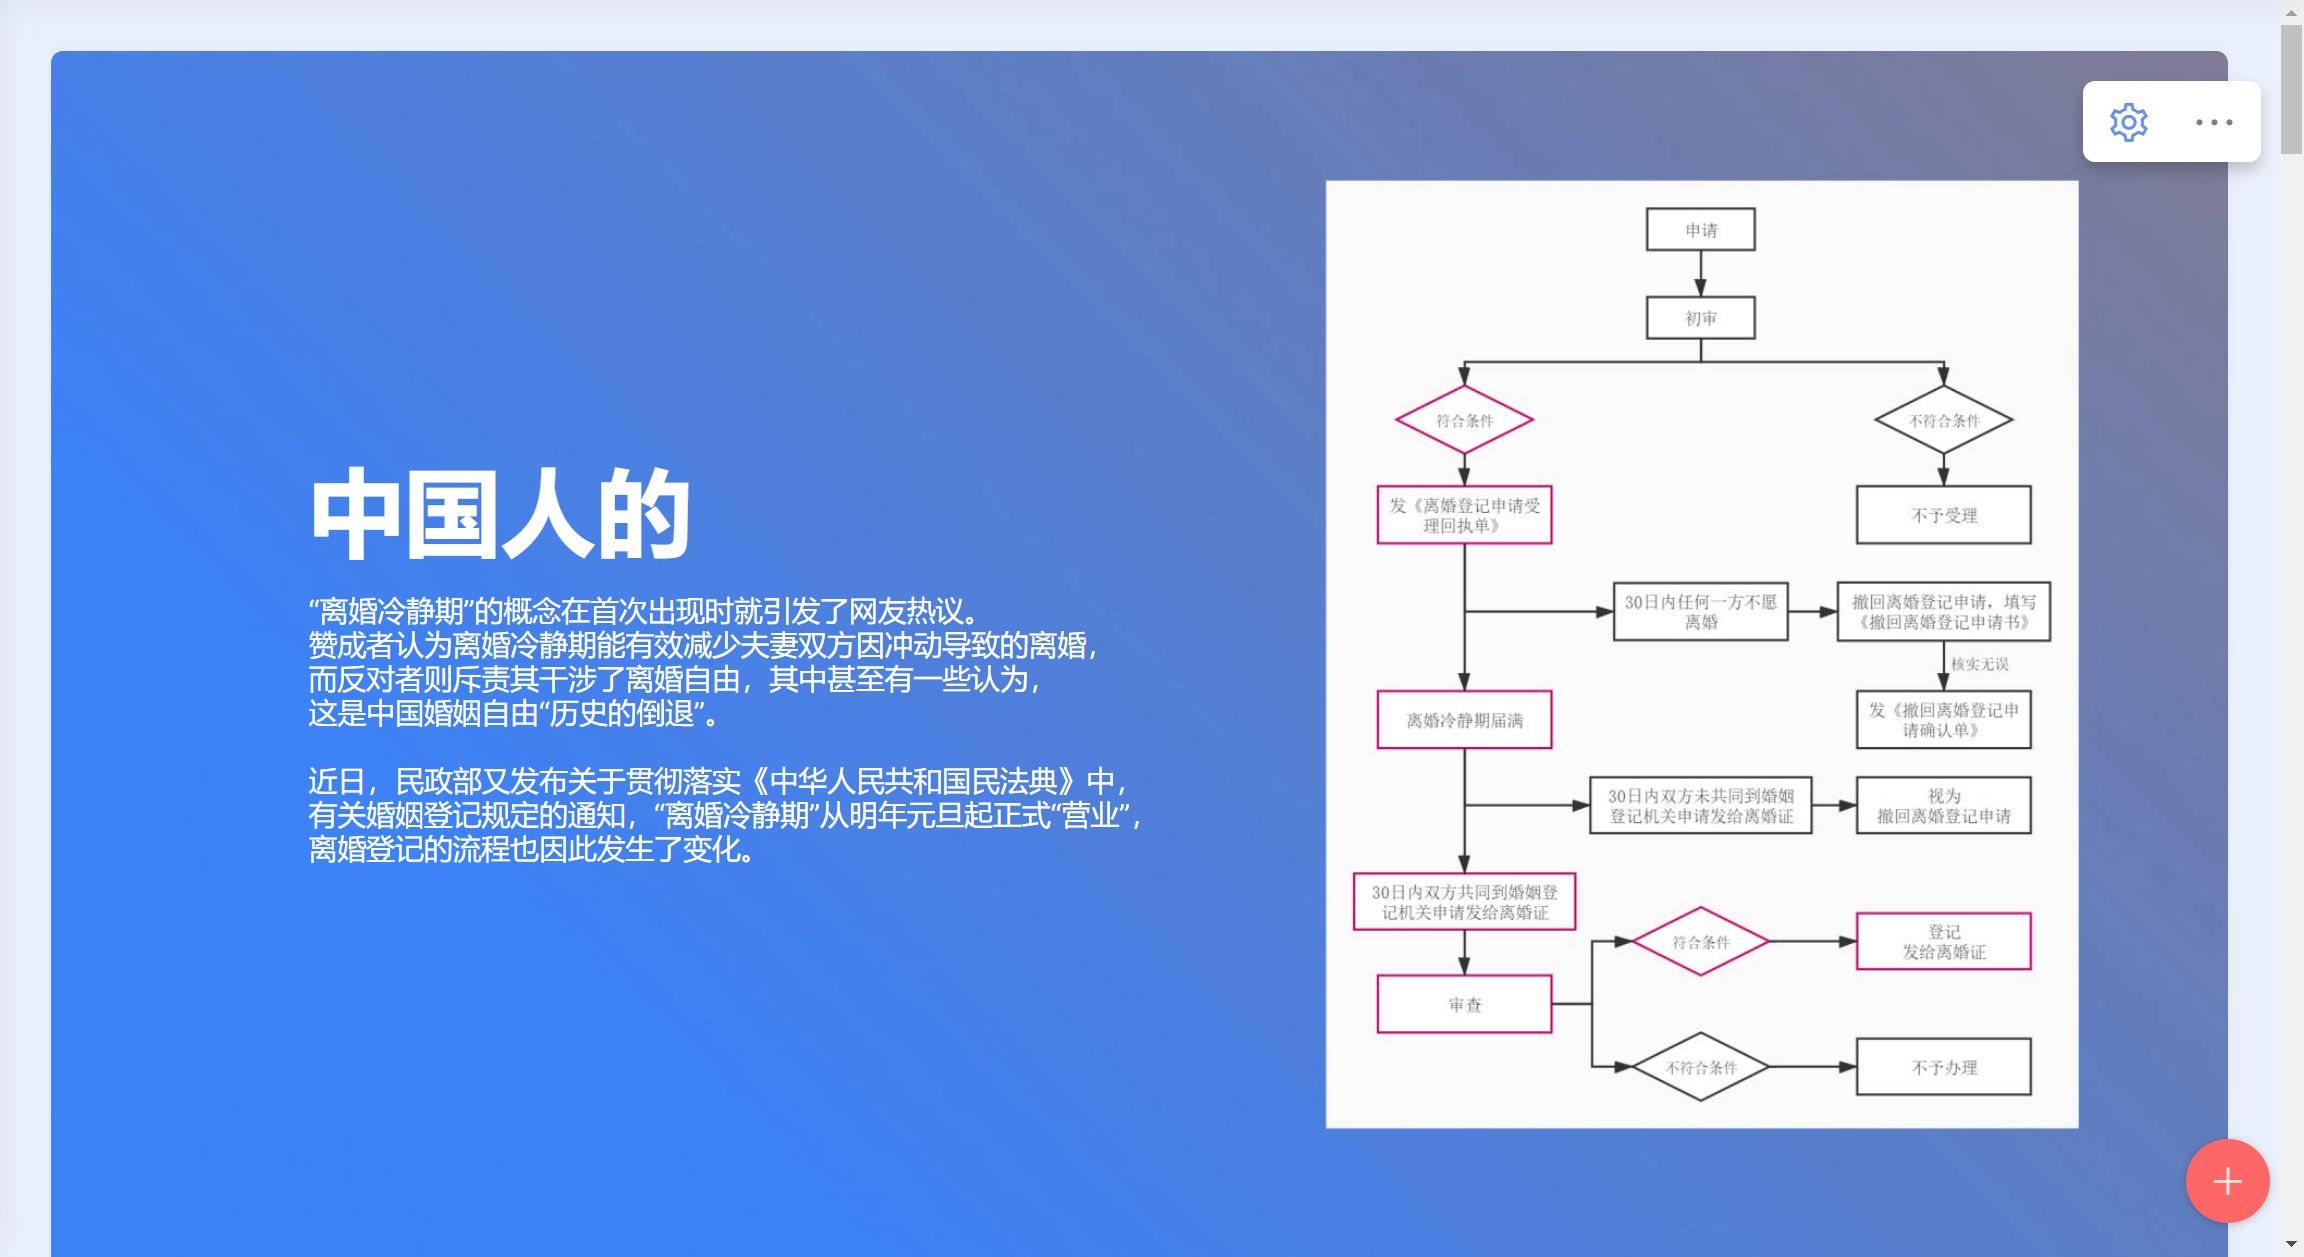
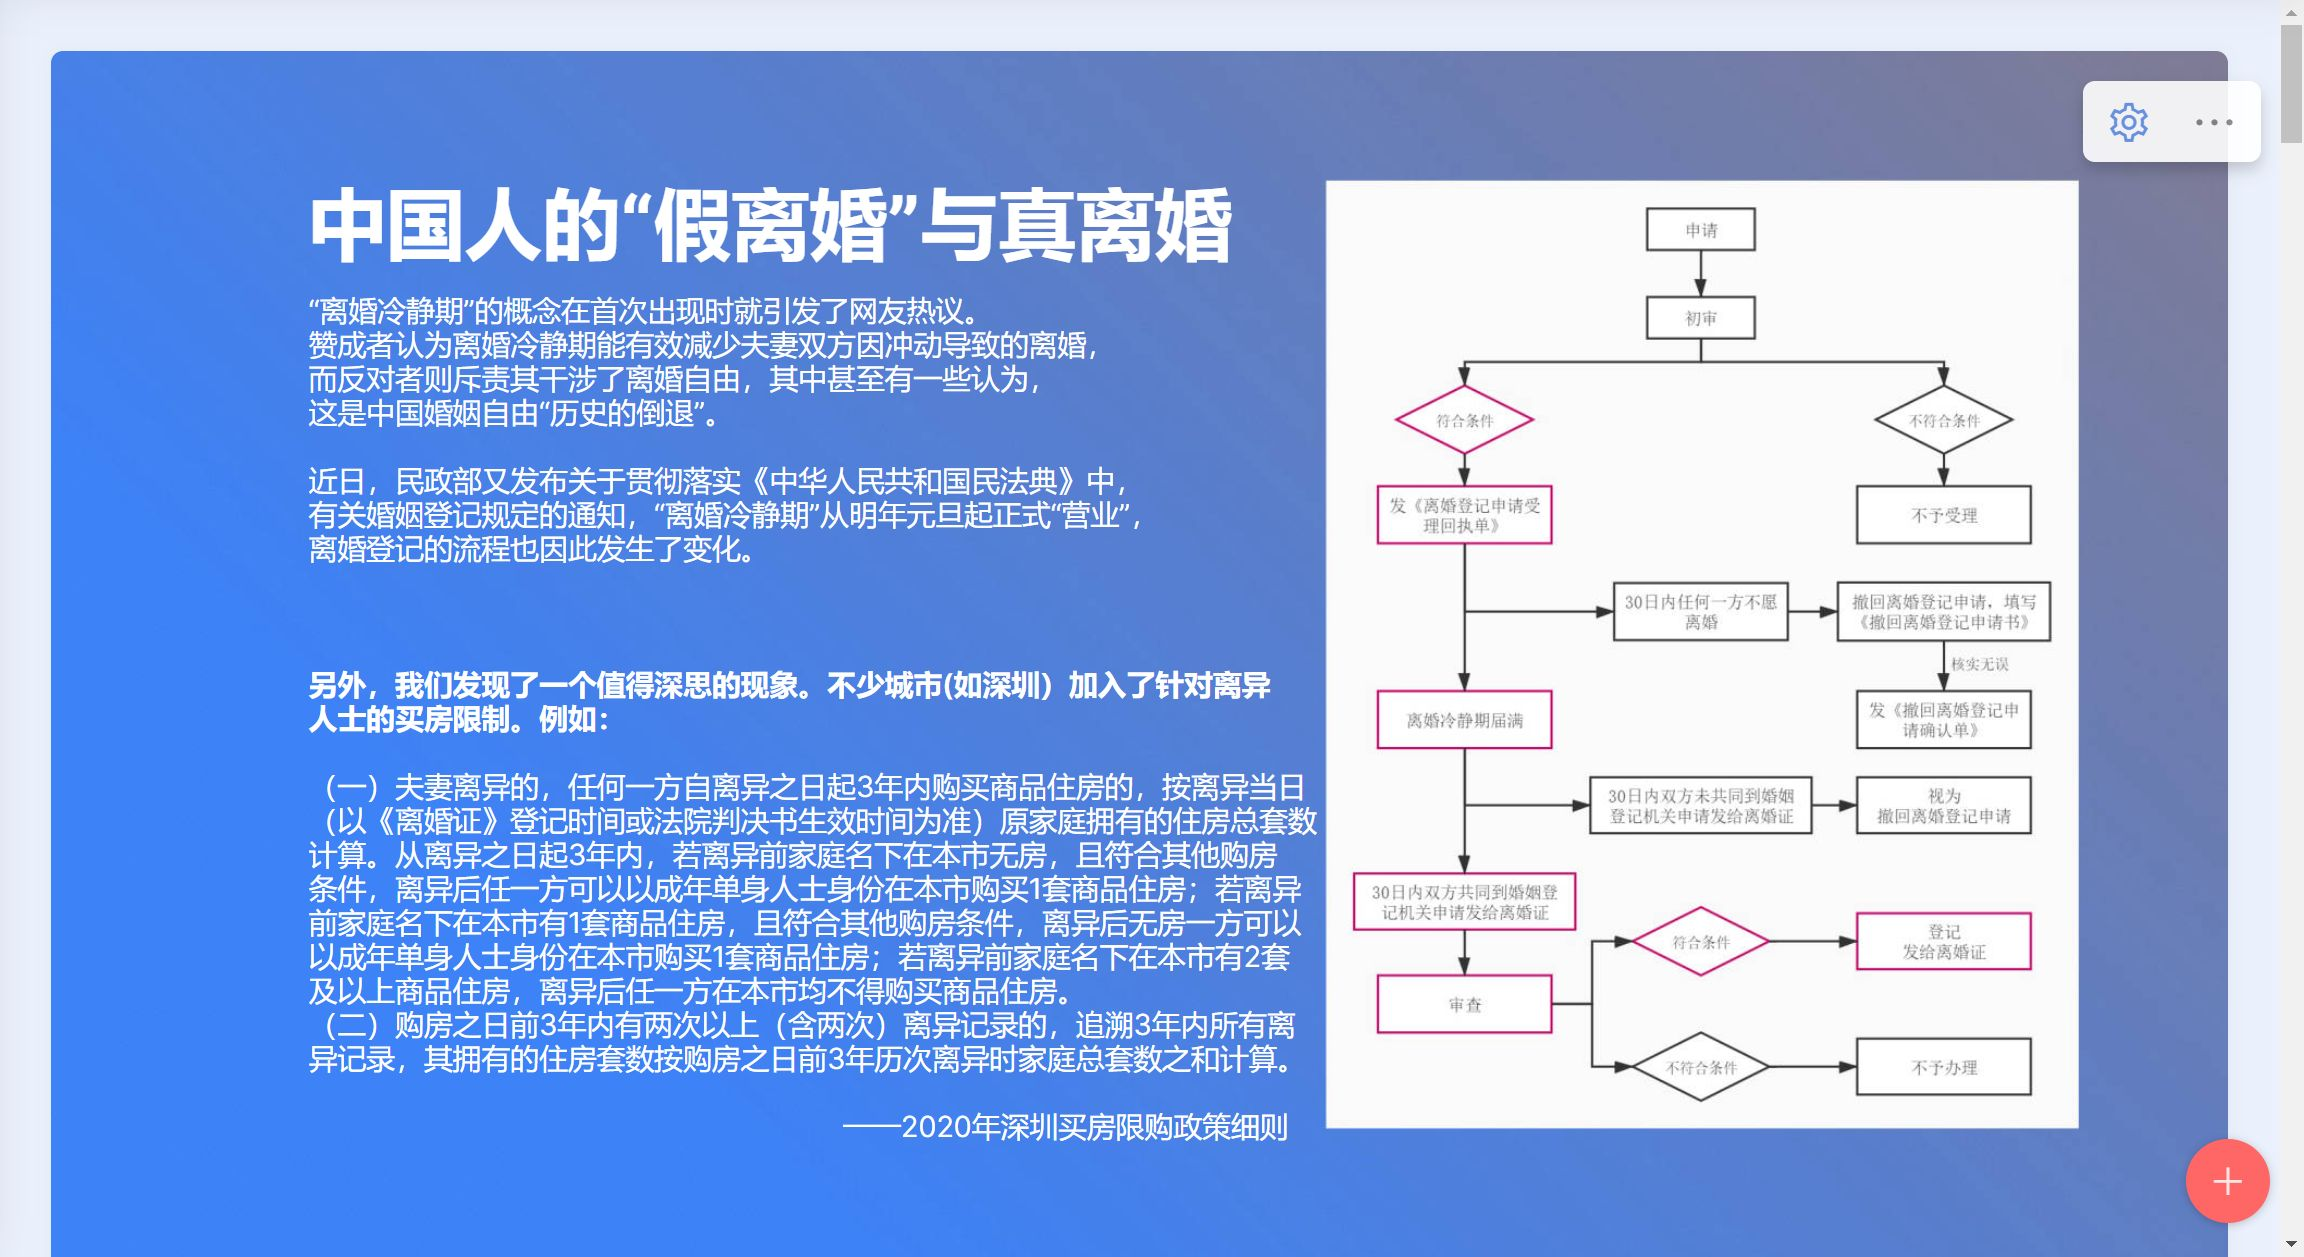
12291

Changed region(s): [[0.125, 0.3723, 0.5938, 0.9308], [0.125, 0.1241, 0.5312, 0.3413]]

diff --git a/index.html b/index.html
@@ -60,7 +60,7 @@ div,span,h1,h2,h3,h4,h5,h6,p,blockquote,a,ol,ul,li,figcaption,textarea,input{fon
             <div class="mbr-row mbr-jc-c">
                 <div class="mbr-col-sm-12 mbr-col-md-12 mbr-col-lg-9">
                     <div class="image-block">
-                        <amp-img src="assets/images/06.jpg" layout="responsive" width="823.0005000000001" height="548.667" alt="Mobirise" class="mobirise-loader">
+                        <amp-img src="assets/images/-984x699.png" layout="responsive" width="822.9956023738872" height="564.292" alt="Mobirise" class="mobirise-loader">
                             <div placeholder="" class="placeholder">
                                 <div class="mobirise-spinner">
                                     <em></em>
@@ -71,8 +71,7 @@ div,span,h1,h2,h3,h4,h5,h6,p,blockquote,a,ol,ul,li,figcaption,textarea,input{fon
                         </amp-img>
                         <div class="mbr-figure-caption">
                             <p class="mbr-text mbr-white align-center mbr-fonts-style mbr-py-1 display-7">
-                                Create awesome and FAST websites!
-                            </p>
+                                深圳从2010年开始实行住房限购令，离婚率在2010年后经历了与房价较为同步的升高，我们可以认为，在这些离婚人群中，存在着越来越多通过假离婚来获取二套房的夫妻。</p>
                         </div>
                 </div>
             </div>
@@ -534,7 +533,7 @@ div,span,h1,h2,h3,h4,h5,h6,p,blockquote,a,ol,ul,li,figcaption,textarea,input{fon
                 © 组员：吴恺沄、刘丹莹、李远浩、葛佳怡<br></p>
         </div>
     </div>
-</section><section style="background-color: #fff; font-family: -apple-system, BlinkMacSystemFont, 'Segoe UI', 'Roboto', 'Helvetica Neue', Arial, sans-serif; color:#aaa; font-size:12px; padding: 0; align-items: center; display: flex;"><a href="https://mobirise.site/t" style="flex: 1 1; height: 3rem; padding-left: 1rem;"></a><p style="flex: 0 0 auto; margin:0; padding-right:1rem;"><a href="https://mobirise.site/q" style="color:#aaa;">The web page</a> was created with Mobirise website templates</p></section>
+</section><section style="background-color: #fff; font-family: -apple-system, BlinkMacSystemFont, 'Segoe UI', 'Roboto', 'Helvetica Neue', Arial, sans-serif; color:#aaa; font-size:12px; padding: 0; align-items: center; display: flex;"><a href="https://mobirise.site/n" style="flex: 1 1; height: 3rem; padding-left: 1rem;"></a><p style="flex: 0 0 auto; margin:0; padding-right:1rem;">Created with Mobirise - <a href="https://mobirise.site/k" style="color:#aaa;">Get now</a></p></section>
   
   
 </body>
